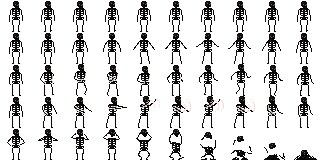
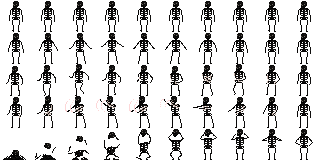
adding skeletons

diff --git a/orcs-hunter/game.js b/orcs-hunter/game.js
@@ -296,6 +296,18 @@ var GameLayer = cc.Layer.extend({
         this.addChild(o, 3);
         this.orcs.push(o);
     },
+    spawnDeath: function() {
+        var baseY = this.castle.getOrcBaseY();
+        var baseX = cc.winSize.width + 50;
+        var d = new Death(this);
+        if (!d.init()) return;
+        var jitterX = baseX + (Math.random() * 40 - 20);
+        var jitterY = baseY + (Math.random() * 20 - 10);
+        d.setPosition(jitterX, jitterY);
+        this.addChild(d, 3);
+        this.orcs.push(d);
+    },
+
     spawnDragon: function() {
         var d = new cc.Dragon(this);
         var pos = d.getPosition();
@@ -332,6 +344,8 @@ var GameLayer = cc.Layer.extend({
                         this.spawnOrc();
                     } else if (evt.type === "big-orc") {
                         this.spawnBigOrc();
+                    } else if (evt.type === "death") {
+                        this.spawnDeath();
                     } else if (evt.type === "dragon") {
                         this.spawnDragon();
                     }

diff --git a/orcs-hunter/index.html b/orcs-hunter/index.html
@@ -11,6 +11,7 @@
     <script type="text/javascript" src="Hero.js" charset="UTF-8"></script>
     <script type="text/javascript" src="Orc.js" charset="UTF-8"></script>
     <script type="text/javascript" src="BigOrc.js" charset="UTF-8"></script>
+    <script type="text/javascript" src="Death.js" charset="UTF-8"></script>
     <script type="text/javascript" src="castle.js" charset="UTF-8"></script>
     <script type="text/javascript" src="background.js" charset="UTF-8"></script>
     <script type="text/javascript" src="Dragon.js" charset="UTF-8"></script>
@@ -29,6 +30,7 @@
                     "assets/arrow.png",
                     "assets/orc.png",
                     "assets/big-orc.png",
+                    "assets/death.png",
                     "assets/castle-tileset.png",
                     "assets/bg-tileset.png",
                     "assets/dragon-red.png"

diff --git a/orcs-hunter/Death.js b/orcs-hunter/Death.js
@@ -1,0 +1,27 @@
+// Death.js
+// A variant of Orc that is similar to BigOrc but uses the death sprite.
+
+var Death = Orc.extend({
+    // Override attack power (2 points per attack loop)
+    attackPower: 2,
+
+    // Override health for death enemies (HP points)
+    maxHealth: 4,
+    health: 4,
+
+    /**
+     * Initialize with its specific texture.
+     * @returns {boolean} true if initialization succeeded
+     */
+    init: function() {
+        var texture = cc.textureCache.addImage("assets/death.png");
+        if (!texture) {
+            console.error("Failed to load death.png");
+            return false;
+        }
+        return this._super(texture);
+    }
+});
+
+// Expose globally
+window.Death = Death;
